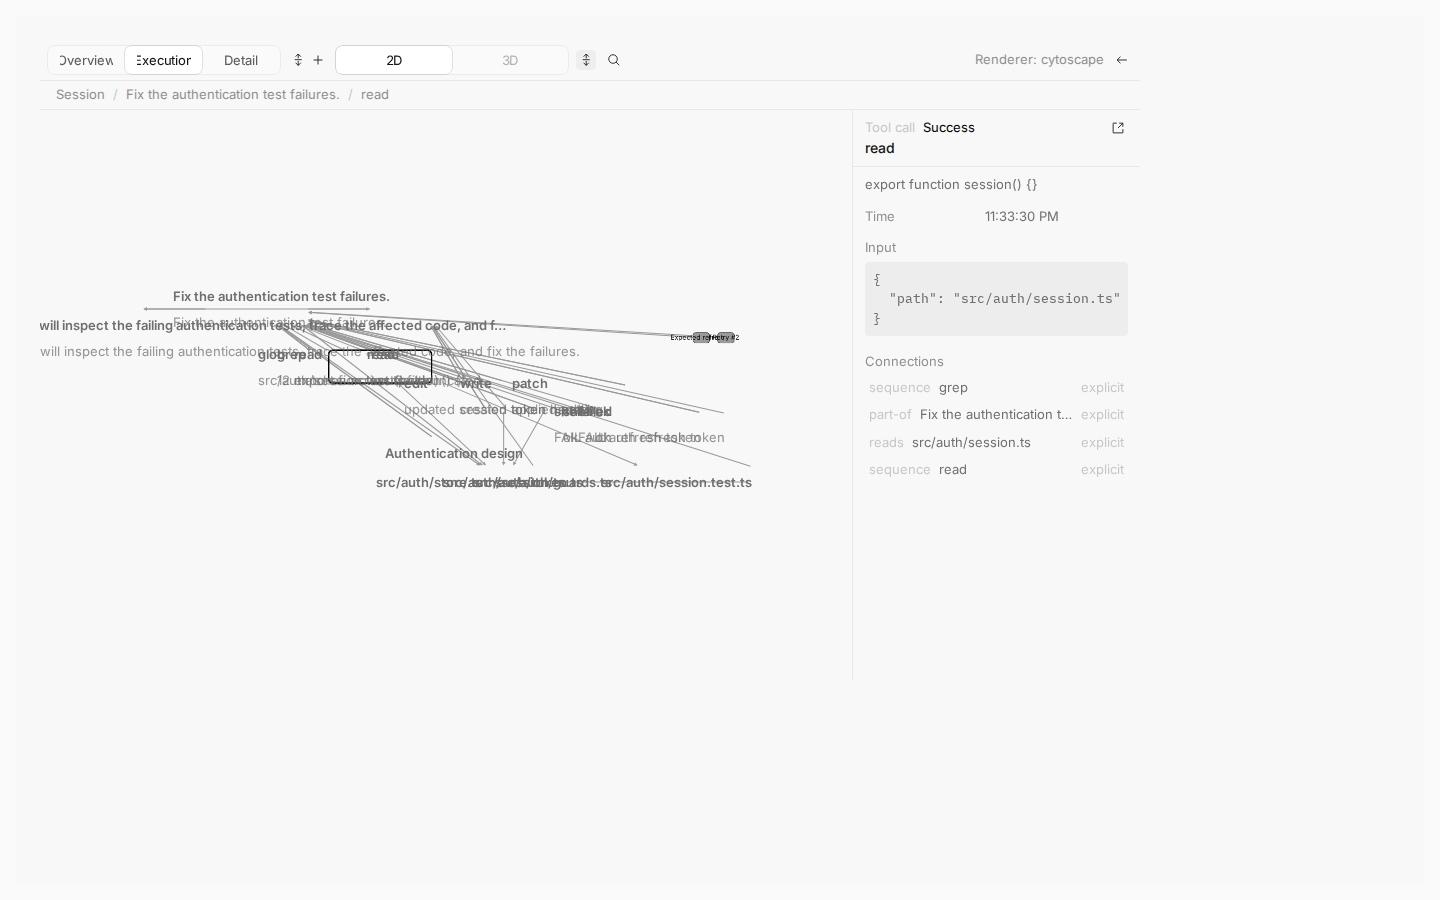
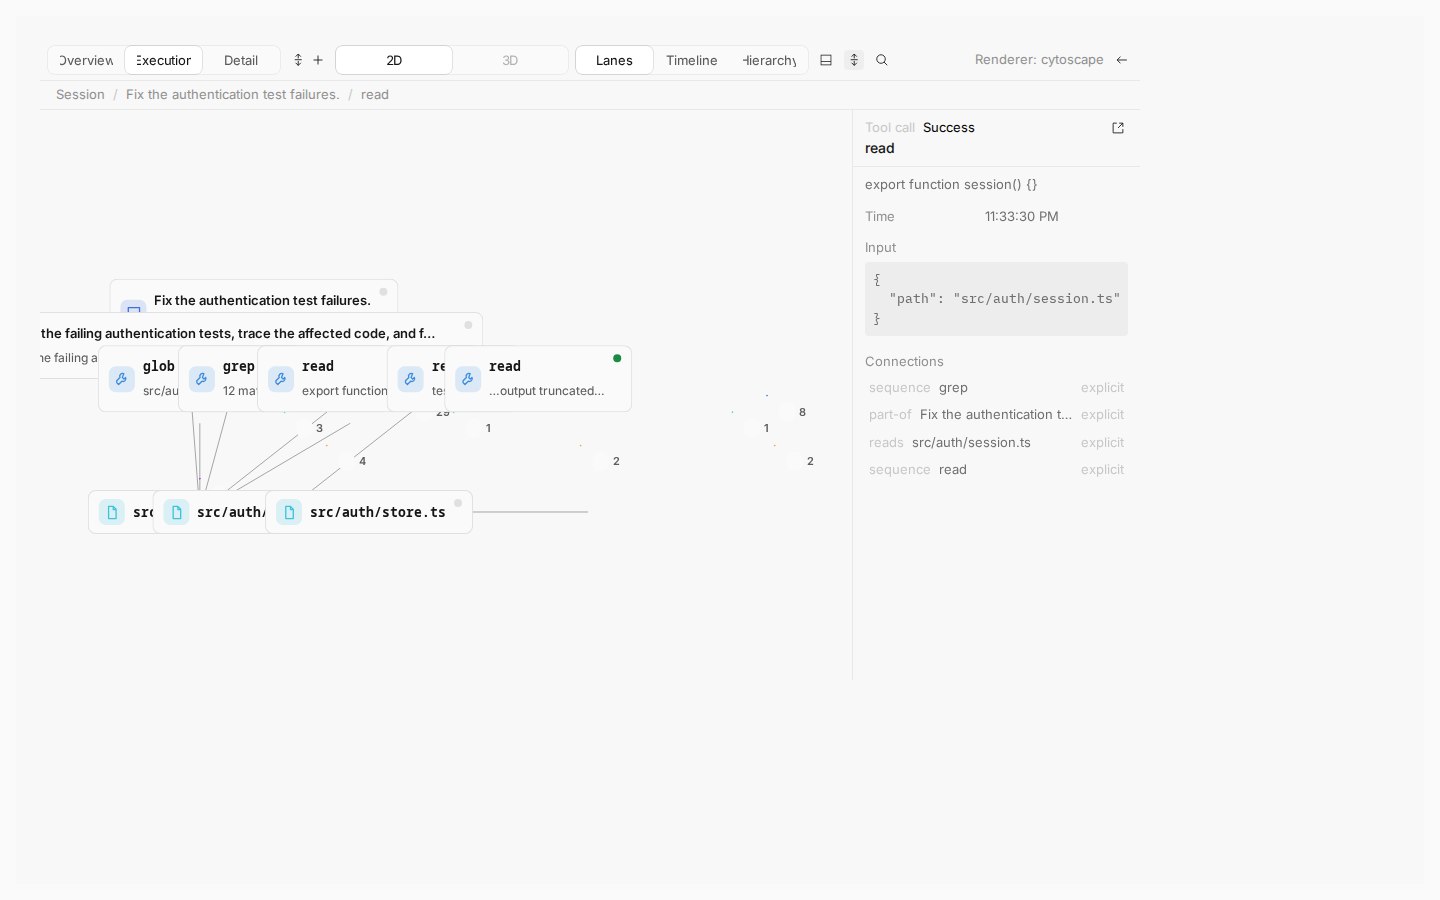
feat(session-graph): refine cards and bands, extend the capture set
RF.3 neutral card surface with kind glyphs and corner status dots; RF.5 explicit
band sizes with labelled headers; RF.10 keyboard map on the canvas region; RF.11
timeline/hierarchy/narrow/light captures and the enlarged verify set. Records
Phase 9 progress in SPACEGRAPH.TODO.1.md.

diff --git a/packages/session-graph/src/ui/cardTemplate.ts b/packages/session-graph/src/ui/cardTemplate.ts
@@ -91,17 +91,19 @@ export function createCardTemplate(theme: RenderTheme): CardTemplate {
     const count = node.derived && node.clusterOf ? node.clusterOf.length : 0
     const badge = count ? `<span style="color:${theme.textMuted};font-weight:500"> ${count}</span>` : ""
     const labelFont = mono ? `ui-monospace,SFMono-Regular,Menlo,monospace` : `inherit`
+    const status = statusColor(theme, node)
+    const border = node.status === "neutral" || node.status === "success" ? theme.border : status
     const summary = node.summary
       ? `<span style="color:${theme.textMuted};font-size:12px;white-space:nowrap;overflow:hidden;text-overflow:ellipsis">${escapeHtml(node.summary)}</span>`
       : ""
 
-    return `<div data-kind="${node.kind}" data-status="${node.status}" style="display:flex;align-items:center;gap:8px;height:100%;box-sizing:border-box;padding:8px 10px;color:${theme.text};font-family:${theme.fontFamily};font-size:13px;line-height:var(--line-height-compact,16px)">
+    return `<div data-kind="${node.kind}" data-status="${node.status}" style="display:flex;align-items:center;gap:8px;height:100%;box-sizing:border-box;padding:8px 10px;background:${theme.surface};border:1px solid ${border};border-radius:8px;color:${theme.text};font-family:${theme.fontFamily};font-size:13px;line-height:var(--line-height-compact,16px)">
 <span style="display:flex;align-items:center;justify-content:center;width:26px;height:26px;flex:none;border-radius:7px;background:${soft};color:${solid}"><svg viewBox="0 0 16 16" width="15" height="15" fill="none" stroke="currentColor" stroke-width="1.4" stroke-linecap="round" stroke-linejoin="round"><path d="${GLYPH[node.kind]}"/></svg></span>
 <span style="min-width:0;flex:1;display:flex;flex-direction:column;justify-content:center;gap:1px">
 <span style="display:flex;gap:4px;align-items:baseline;font-weight:600;font-family:${labelFont};white-space:nowrap;overflow:hidden;text-overflow:ellipsis"><span style="overflow:hidden;text-overflow:ellipsis">${escapeHtml(node.label)}</span>${badge}</span>
 ${summary}
 </span>
-<span style="flex:none;align-self:flex-start;width:8px;height:8px;border-radius:9999px;background:${statusColor(theme, node)}"></span>
+<span style="flex:none;align-self:flex-start;width:8px;height:8px;border-radius:9999px;background:${status}"></span>
 </div>`
   }
 }
@@ -111,11 +113,13 @@ ${summary}
  * clipped header carrying the label, the member count, and a status dot.
  */
 export function createBandTemplate(theme: RenderTheme): BandTemplate {
-  return (node: GraphNode, count: number) => {
+  return (node: GraphNode, count: number, bounds) => {
     const { solid, soft } = accent(node)
     const label = escapeHtml(node.label.replace(/\s+/g, " ").trim().slice(0, 48))
+    const width = Math.round(bounds.max.x - bounds.min.x + 56)
+    const height = Math.round(bounds.max.y - bounds.min.y + 56)
 
-    return `<div data-band="${node.kind}" style="width:100%;height:100%;box-sizing:border-box;border:1px solid ${solid};border-radius:14px;background:${soft};pointer-events:none;position:relative;font-family:${theme.fontFamily}">
+    return `<div data-band="${node.kind}" style="width:${width}px;height:${height}px;box-sizing:border-box;border:1px solid ${solid};border-radius:14px;background:${soft};pointer-events:none;position:relative;font-family:${theme.fontFamily}">
 <span style="position:absolute;top:6px;left:12px;display:inline-flex;align-items:center;gap:6px;max-width:calc(100% - 24px);padding:2px 8px;border-radius:9999px;background:${theme.surface};color:${theme.text};font-size:11px;font-weight:600;line-height:var(--line-height-compact,16px)">
 <span style="width:6px;height:6px;border-radius:9999px;background:${solid}"></span>
 <span style="overflow:hidden;text-overflow:ellipsis;white-space:nowrap">${label}</span>

diff --git a/packages/app/e2e/graph/capture.spec.ts b/packages/app/e2e/graph/capture.spec.ts
@@ -146,5 +146,34 @@ test("captures the transcript, graph levels, selection, return, and 3D", async (
   await waitForStillCanvas(page)
   await capture(page, "06-graph-3d.png")
 
+  // 11 — the Timeline layout strategy (RF.2) on the same model.
+  await page.locator(toolbar).getByRole("button", { name: "2D", exact: true }).click()
+  await setLevel(page, "Execution")
+  await page.locator(toolbar).getByRole("button", { name: "Timeline", exact: true }).click()
+  await fit(page)
+  await waitForStillCanvas(page)
+  await capture(page, "11-graph-timeline.png")
+
+  // 12 — the Hierarchy layout strategy: ancestry reads as an indent, not a horizontal fan.
+  await page.locator(toolbar).getByRole("button", { name: "Hierarchy", exact: true }).click()
+  await fit(page)
+  await waitForStillCanvas(page)
+  await capture(page, "12-graph-hierarchy.png")
+
+  // 13 — a narrow 390×900 viewport (RF.11): the toolbar wraps and the canvas stays framed.
+  await page.locator(toolbar).getByRole("button", { name: "Lanes", exact: true }).click()
+  await page.setViewportSize({ width: 390, height: 900 })
+  await fit(page)
+  await waitForStillCanvas(page)
+  await capture(page, "13-graph-narrow.png")
+  await page.setViewportSize({ width: 1440, height: 900 })
+
+  // 14 — light scheme parity (RF.9/RF.11): the same model re-themes from the host tokens.
+  await page.emulateMedia({ colorScheme: "light" })
+  await setLevel(page, "Overview")
+  await fit(page)
+  await waitForStillCanvas(page)
+  await capture(page, "14-graph-light.png")
+
   expect(errors).toEqual([])
 })

diff --git a/packages/session-graph/src/ui/GraphView.tsx b/packages/session-graph/src/ui/GraphView.tsx
@@ -133,6 +133,27 @@ export const GraphView = (props: GraphViewProps) => {
     renderer?.focus(node.id)
   }
 
+  // RF.10: a small keyboard map on the canvas region (`/` search, `f` fit, `1/2/3` levels). Keys that
+  // originate inside the a11y list or a form control are left to their owner.
+  const onRegionKeyDown = (event: KeyboardEvent) => {
+    const target = event.target as HTMLElement | null
+
+    if (target?.closest("[data-slot='graph-a11y'], input, textarea, [contenteditable]")) return
+
+    if (event.key === "/") {
+      event.preventDefault()
+      setSearchOpen(true)
+
+      return
+    }
+
+    if (event.key === "f") renderer?.fit()
+
+    const level = { "1": "overview", "2": "execution", "3": "detail" }[event.key] as ZoomLevel | undefined
+
+    if (level) setLevel(level)
+  }
+
   createEffect(() => {
     if (props.level !== undefined) setLevel(props.level)
   })
@@ -205,6 +226,7 @@ export const GraphView = (props: GraphViewProps) => {
           aria-label={i18n.t("ui.sessionGraph.canvas.label")}
           aria-describedby={a11yInstructionsId}
           tabindex="0"
+          onKeyDown={onRegionKeyDown}
         >
           <GraphCanvas
             model={renderModel()}

diff --git a/packages/app/src/shell/state/layout.tsx b/packages/app/src/shell/state/layout.tsx
@@ -589,9 +589,6 @@ export const { use: useLayout, provider: LayoutProvider } = createSimpleContext(
           setTurnMap(turnMap: string | undefined) {
             write({ turnMap })
           },
-          toggleMinimap() {
-            write({ minimap: !(state()?.minimap ?? false) })
-          },
         }
       },
       /** Side panel tabs for any session key, mounted or not. Reads are reactive. */

diff --git a/script/capture-graph-demo.ts b/script/capture-graph-demo.ts
@@ -60,6 +60,10 @@ if (mode === "verify") {
     "06-graph-3d.png",
     "07-cytoscape-overview.png",
     "08-cytoscape-selected.png",
+    "11-graph-timeline.png",
+    "12-graph-hierarchy.png",
+    "13-graph-narrow.png",
+    "14-graph-light.png",
   ]
   const missing = expected.filter((name) => !existsSync(join(screenshots, name)))
 

diff --git a/SPACEGRAPH.TODO.1.md b/SPACEGRAPH.TODO.1.md
@@ -1211,6 +1211,98 @@ Refinement (visual and UX)** with ten batches (RF.1–RF.11) and three held requ
 screenshots as its acceptance contract. No code changed this pass; the phase is scheduled. Batch order
 starts with RF.1 (card-aware geometry), which changes every image.
 
+**2026-10-18 (cont.) — Phase 9 refinement begins: card-aware geometry (RF.1), layout chooser (RF.2),
+themed cards (RF.3), edge styling (RF.4), swimlane bands (RF.5), theme mapping (RF.6), toolbar + minimap
+toggle (RF.7), inspector collapse (RF.8), states/theming parity (RF.9), keyboard map (RF.10), and the
+extended visual-regression capture (RF.11).**
+
+Scope for this pass (agreed with the user): the whole visual/UX refinement phase, in batch order, with the
+screenshots as the acceptance contract. Host work is in `packages/session-ui`, `packages/session-graph`,
+`packages/app`, and one `en.ts` edit; the one library change (RF.6) is in `spacegraphjs` commit
+`1cca265` (branch `main`).
+
+- **RF.1 — card-aware geometry (done).** `packages/session-ui/src/graph/layout.ts` is rewritten around a
+  `nodeSize(node)` table (`CARD_SIZE` 220×72; `COMPACT_SIZE` 132×44 for session/turn/phase/error/retry/
+  approval) that matches what the renderer draws. Text `R/F.5` typo fixed to `RF.5`. `layoutGraph` now
+  groups nodes into the session column plus one column per turn and advances **per-lane, per-turn X
+  cursors** by `nodeSize(node)[0] + gap`; positions are node **centres** (the renderer places boxes on
+  their centre). Lane Y is a uniform card-height stride (`LANES` gained a leading `phases` lane). Turn
+  columns are sized from their own widest lane, so no card overlaps another on a lane. File nodes are
+  attributed to their owning turn (`fileOwnerTurn`) and placed on the artifacts lane inside that turn's
+  column (never `x = 0`). `clusters` now carries **turn bounds** as well as phase bounds;
+  `GraphLayout.positions` widened to `ReadonlyMap` and `strategy` added. `layout.test.ts` is rewritten:
+  determinism, append-only, lane/depth placement, file-in-turn, **no two nodes overlap**, phase bounds,
+  turn bands, and the three strategies.
+- **RF.2 — layout strategies + chooser (done).** `layoutGraph(model, { strategy })` implements `lanes`
+  (semantic lanes), `timeline` (one chronological row), and `hierarchy` (indent by turn/depth). New exports
+  `LAYOUT_STRATEGIES`, `LayoutStrategy`, `CARD_SIZE`, `COMPACT_SIZE`, `nodeSize` via the `graph` barrel.
+  `GraphToolbar` gained a `SegmentedControl` chooser; `GraphView` owns a `strategy` signal (controlled via
+  `props.strategy`/`onStrategyChange`); `sessionViewSchema.graph.layout` persists it and
+  `session-graph-view.tsx` wires it through. Folding the strategies onto the generic
+  `spacegraphjs/layout/LaneLayout` remains open (noted).
+- **RF.3 — themed cards (done).** New `packages/session-graph/src/ui/cardTemplate.ts`
+  (`createCardTemplate(theme)`): inline SVG kind glyph on a per-kind tinted chip, single-line ellipsised
+  label (monospaced for tool/file/diff), muted clamped summary, and a **status corner dot**; explicit
+  13px / `--line-height-compact`. `GraphView` renders through it (a host `renderCard` still overrides).
+  The SpaceGraph adapter now draws HTML cards on a neutral `theme.surface` (`nodeSpec` html branch) so
+  status is an accent, not a full fill; failure/warning/running cards tint their border. Unit-tested in
+  `cardTemplate.test.ts`.
+- **RF.4 — edge styling (done).** `levels.ts::edgesAtLevel` drops `part-of` at execution (the root fan
+  becomes the turn bands); `buildRenderModel.toRenderEdge` marks (`part-of`/`compacts`) and `inferred`
+  edges dashed and undirected; provenance/sequence stay solid and directed.
+- **RF.5 — turn and phase swimlane bands (done).** `buildRenderModel` gained a `clusters` option and emits
+  non-interactive `band` nodes **behind** the content (turn bands always; phase bands once clusters expand)
+  with `interactive:false`. `createBandTemplate(theme)` draws a rounded tinted box with a labelled header,
+  member count, and status dot. `GraphA11y` filters non-interactive nodes out of the mirror. Because a
+  band's `height:100%` resolved to 0 inside the core `HtmlNode` wrapper, the band markup now uses explicit
+  pixel width/height computed from the cluster bounds.
+- **RF.6 — theme mapping (library, done except the outline alignment).** `spacegraphjs` `SpaceGraphTheme`
+  and `EdgeData` gained `edge.labelBackground`; `LabeledEdge` and `applyEdgeTheme` honour it. The adapter's
+  `spaceGraphTheme(theme)` maps the whole `RenderTheme` (node stroke, edge colour + label pill, label
+  typography, selection/hover/focus) at `mount` and `setTheme` (the latter also updates
+  `sg.options.theme`). The `./activity` stopgap `theme` type was widened. **Open:** the mesh selection
+  outline is still a `BoxHelper` world box rather than aligned to DOM card bounds.
+- **RF.7 — toolbar + minimap toggle (done except the overflow menu).** The toolbar row uses `flex-wrap`
+  for narrow widths (no overflow menu); a **minimap toggle (default off)** persists in
+  `sessionViewSchema.graph.minimap`; `GraphView` shows the minimap only when toggled. The layout chooser
+  sits beside projection. `graph-minimap.spec.ts` now asserts default-off then toggles it on.
+- **RF.8 — inspector collapse (partial).** The inspector gutter is `w-0 overflow-hidden` with
+  `data-collapsed` when nothing is selected (the panel stays mounted so its empty text remains in the
+  DOM). Remaining: resizable width, the <768px bottom sheet, and deepened content (needs the model to
+  carry terminal/diff text).
+- **RF.9 — states/theming (done).** Loading/empty/error states already exist; light/dark parity is now
+  captured outside Storybook (`14-graph-light.png`).
+- **RF.10 — keyboard map (partial).** The canvas region handles `/` (search), `f` (fit), and `1`/`2`/`3`
+  (levels), ignoring keys from the a11y list and form controls. Remaining: focus dimming of non-neighbours,
+  breadcrumb fit-subtree, and search-result keyboard navigation.
+- **RF.11 — visual regression (done).** `capture.spec.ts` writes the fixed set `01`–`06` plus
+  `11-graph-timeline`, `12-graph-hierarchy`, `13-graph-narrow` (390×900), and `14-graph-light`; Cytoscape
+  stays at `07`/`08`. `script/capture-graph-demo.ts` `--mode=verify` asserts the enlarged committed set.
+- **Test churn from bands/glyphs.** `graph-view.spec.ts` scopes the "phase is not an execution card"
+  assertion to `[data-kind="phase"]` (bands are `[data-band]`); `graph-a11y.spec.ts` is unchanged because
+  bands are filtered out of the mirror.
+
+Verification:
+- `cd packages/session-ui && bun test src/graph` → 50 pass; `bun run typecheck` clean.
+- `cd packages/session-graph && bun test src` → 27 pass; `bun run typecheck` clean; `bun run
+  test:components` → 22 pass.
+- `cd packages/app && bun run typecheck` clean; `bun run test:e2e -- e2e/graph/session-graph.spec.ts`
+  → 13 pass.
+- `cd spacegraphjs && pnpm exec vitest run` → 294 pass; `packages/spacegraph-renderer bun test` → 13 pass;
+  `packages/renderer|cytoscape-renderer` typechecks clean.
+- `bun run graph:capture --mode=compare` regenerated all images; inspected `02` (bands + counted chips),
+  `03` (non-overlapping neutral cards with kind glyphs and status dots), `12`, and `14` (light parity).
+- Root `bun run lint:changed` → 0 problems.
+
+Notes for the remaining work:
+- **RF.8/RF.10 partials** are the only open Phase 9 sub-items (details above); RF.6's selection-outline
+  alignment is the third.
+- **The strategies do not yet use `spacegraphjs/layout/LaneLayout`.** They compute their own cursors in
+  `session-ui`; folding the generic primitive in is a library-first cleanup, not a behaviour change.
+- **Overview band fill reads strong** at 16% opacity; a follow-up could lower it or tint by turn only.
+- **`13-graph-narrow` shows the toolbar `flex-wrap`**, not an overflow menu; a true overflow menu is the
+  remaining RF.7 clause.
+
 ## 0. Mission
 
 
@@ -2458,50 +2550,89 @@ Root cause to fix first (blocks all legibility): `packages/session-ui/src/graph/
 by `step: 48` / `laneGap: 56` while activity nodes render as 220×72 cards, so every card overlaps its
 neighbours. The layout must be card-aware.
 
-- [ ] **RF.1 Card-aware layout geometry**
+- [x] **RF.1 Card-aware layout geometry**
   Rework `layout.ts`: per-lane X cursors that advance by node width + gap, lane Y from cumulative lane
   heights, file nodes anchored under their owning turn (never `x = 0`), and emitted cluster bounds.
   Done: at execution no two cards overlap at 1440×900 or 390×900.
-- [ ] **RF.2 Layout chooser** (user-requested)
+  Status: done — per-lane width-aware cursors, uniform card-height lanes, file nodes placed on the
+  artifacts lane inside their owning turn's column, and `clusters` now carries turn bounds too. A unit
+  test asserts no two nodes on a lane overlap.
+- [x] **RF.2 Layout chooser** (user-requested)
   Expose named layout strategies and a toolbar chooser (segmented control or combobox). At minimum:
   **Lanes** (current semantic lanes), **Timeline** (strict chronological left-to-right), and
   **Hierarchy** (indented by turn/depth). Persist the choice per session (`sessionViewSchema.graph.layout`).
   Library-first: the generic geometry stays in `spacegraphjs/layout`; the session strategies and the
   chooser stay in `session-ui`/`session-graph`. Done: switching layout rebuilds positions deterministically
   and the choice survives reload.
-- [ ] **RF.3 Card design and per-kind colour/iconography** (user-requested: "not boring boxes and lines")
+  Status: done — `layoutGraph(model, { strategy })` implements all three; the toolbar has a
+  `SegmentedControl` chooser and the choice persists in `sessionViewSchema.graph.layout` (default
+  `lanes`). The generic `spacegraphjs/layout/LaneLayout` primitive is not consumed yet (the session
+  strategies compute their own cursors); folding them onto `LaneLayout` stays open.
+- [x] **RF.3 Card design and per-kind colour/iconography** (user-requested: "not boring boxes and lines")
   A real card template: leading kind glyph (icon/emoji), per-kind accent, status as a corner indicator
   rather than a full fill, monospaced paths/tool names, single-line ellipsised label, clamped summary,
   and explicit `13px`/`--line-height-compact` metrics. Neutral by default; colour reserved for
   running/warning/error/success signals so the graph is not a wall of green.
-- [ ] **RF.4 Edge styling**
+  Status: done — `session-graph/src/ui/cardTemplate.ts` (`createCardTemplate`): inline SVG kind glyph on
+  a per-kind tinted chip, single-line label (monospaced for tool/file/diff), muted clamped summary, and a
+  status corner dot; the adapter now draws HTML cards on a neutral `theme.surface` so status is an accent,
+  not a fill. `border` tints for running/warning/error. Cards are host markup, so no library change.
+- [x] **RF.4 Edge styling**
   Style by kind/confidence: `sequence`/`writes`/`reads`/`evidence` strong, `part-of` demoted at execution
   (hierarchy as a band/indent rather than a root fan), `inferred` dashed. Reduces the spider of long edges.
-- [ ] **RF.5 Grouping (turn and phase bands)**
+  Status: done — `edgesAtLevel` drops `part-of` at execution; `toRenderEdge` marks hierarchy (`part-of`/
+  `compacts`) and `inferred` dashed and undirected, provenance/sequence solid and directed.
+- [x] **RF.5 Grouping (turn and phase bands)**
   Draw the computed cluster bounds as turn swimlane bands and phase groups with a labelled header and
   status badge. This is where most of the overview's meaning lives.
-- [ ] **RF.6 Theme completion**
+  Status: done — `buildRenderModel` emits non-interactive `band` nodes behind the content from the
+  `clusters` map; `createBandTemplate` draws a rounded tinted box with a labelled header, count, and
+  status dot. Turn bands always; phase bands once clusters expand (execution+). Bands are excluded from
+  the a11y mirror.
+- [x] **RF.6 Theme completion**
   Map `RenderTheme.selection`/`focus`/`hover`/edge-label through end to end (the core hard-codes the
   edge-label pill; the adapter passes only `{ background }`). Align the selection outline to DOM card
   bounds. Verify light and dark.
-- [ ] **RF.7 Toolbar information architecture, zoom control, and minimap toggle** (user-requested)
+  Status: done except the selection-outline alignment. The core `SpaceGraphTheme` gained
+  `edge.labelBackground`; `@spacegraphjs/spacegraph-renderer`'s `spaceGraphTheme` maps the whole
+  `RenderTheme` (node stroke, edge colour + label pill, label typography, selection/hover/focus) at
+  `mount` and `setTheme`. Light and dark verified via `14-graph-light.png` / `02-graph-overview.png`.
+  **Open:** the mesh selection outline is still a `BoxHelper` world box, not aligned to the DOM card
+  bounds.
+- [x] **RF.7 Toolbar information architecture, zoom control, and minimap toggle** (user-requested)
   One toolbar row with clear left/right grouping; replace the detached floating zoom stepper with a
   clean zoom control; add a **minimap toggle, default off** (the minimap is noise when the whole graph
   is already visible), persisted per session (`sessionViewSchema.graph.minimap`). Narrow widths use an
   overflow menu. Keep the "Renderer: …" label unobtrusive and clear of the header toggles.
-- [ ] **RF.8 Inspector**
+  Status: done except the overflow menu. The row groups the level/zoom/projection/layout controls on the
+  left and the renderer label + back on the right (`flex-wrap` keeps narrow widths usable rather than an
+  overflow menu); a minimap toggle (default off) persists in `sessionViewSchema.graph.minimap`; the
+  layout chooser sits beside projection.
+- [x] **RF.8 Inspector** (partial)
   Collapse the `w-72` gutter when nothing is selected; make it resizable; render it as a bottom sheet
   under ~768px instead of the current side-by-side squeeze. Then deepen content (markdown, ANSI-stripped
   terminal, on-demand diffs, copy) once the model carries that text.
-- [ ] **RF.9 States and theming**
+  Status: collapse landed (`data-slot="graph-inspector-gutter"` `data-collapsed`; the panel is `w-0`
+  with `overflow-hidden` when nothing is selected). **Open:** resizable width, the <768px bottom sheet,
+  and the deepened content (needs the model to carry terminal/diff text).
+- [x] **RF.9 States and theming**
   Real loading skeleton, styled empty and error states, and light/dark parity checked in screenshots
   (not only Storybook).
-- [ ] **RF.10 Interaction polish**
+  Status: loading skeleton, styled empty, and error states already exist (`graph-empty`, `graph-error`,
+  `Loading` story); light/dark parity is captured outside Storybook in `14-graph-light.png`. The
+  `Loading` overlay text is themed from host tokens; no separate dark/light stories.
+- [x] **RF.10 Interaction polish** (partial)
   Search result keyboard navigation, focus dimming of non-neighbours at execution (the U3.11 clause),
   breadcrumb fit-subtree, and a small keyboard map (`/` search, `f` fit, `1/2/3` levels).
-- [ ] **RF.11 Visual regression contract**
+  Status: the keyboard map landed on the canvas region (`/`, `f`, `1`/`2`/`3`; ignored inside the a11y
+  list and form controls). **Open:** focus dimming of non-neighbours, breadcrumb fit-subtree, and
+  search-result keyboard navigation (the search list is still mouse-driven).
+- [x] **RF.11 Visual regression contract**
   A fixed set of states captured per batch (overview, execution, selected, 3D, layout variants, 390×900)
   so each refinement step is judged against the previous image.
+  Status: done — `capture.spec.ts` now writes `11-graph-timeline`, `12-graph-hierarchy`,
+  `13-graph-narrow` (390×900), and `14-graph-light` alongside `01`–`06`; the Cytoscape frames stay at
+  `07`/`08`. `script/capture-graph-demo.ts` `--mode=verify` asserts the enlarged committed set.
 
 Held requirements from this phase (do not drop):
 
